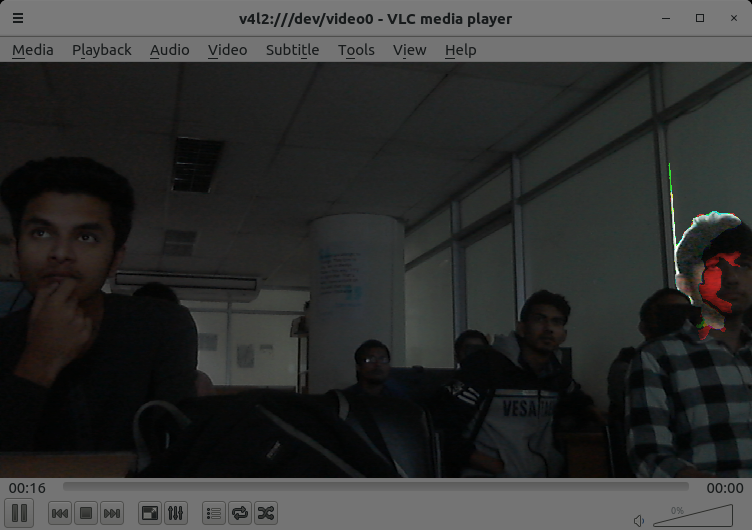
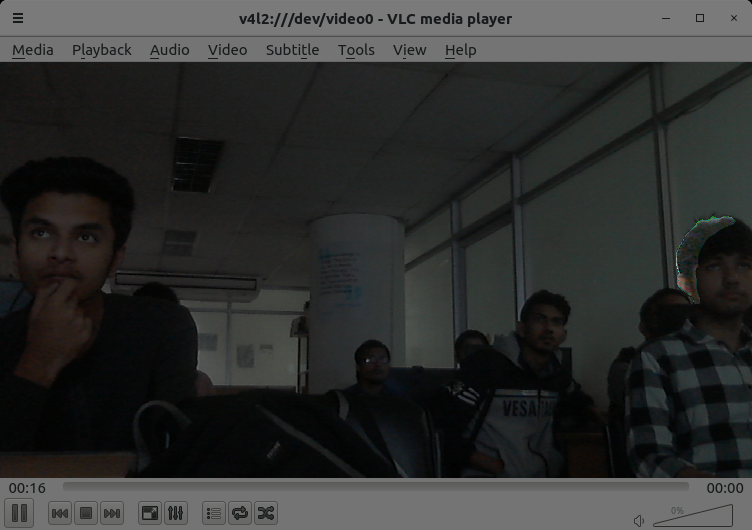
profiling

Changed region(s): [[0.887, 0.3623, 1.0, 0.634]]

diff --git a/FloodFill Demo/src/floodfill/demo/FloodFillDemo.java b/FloodFill Demo/src/floodfill/demo/FloodFillDemo.java
@@ -26,7 +26,7 @@ public class FloodFillDemo {
     private Mat frame1;
     private Mat frame2;
     private Mat originalMat;
-    private final static double EPS = 10;
+    private final static double EPS = 50;
     private int label[][];
     private int currentLabel = 0;
     private int counts[];
@@ -77,6 +77,7 @@ public class FloodFillDemo {
     }
 
     private void process(int channel) {
+        long start = System.currentTimeMillis();
         // In the worst possible scenario we can have a checkerboard pattern where no two
         // pixels are connected. There can be half the total number of pixels in such an image
         counts = new int[(grayscaleMat.height() * grayscaleMat.width()) / 2];
@@ -121,6 +122,8 @@ public class FloodFillDemo {
                 originalMat.put(r, c, color);
             }
 
+        long stop = System.currentTimeMillis();
+        System.out.printf("Time taken: %.4f seconds\n", (stop - start) / 1000.0);
         // write an output for this channel
         Imgcodecs.imwrite("output" + channel + ".png", originalMat);
     }
